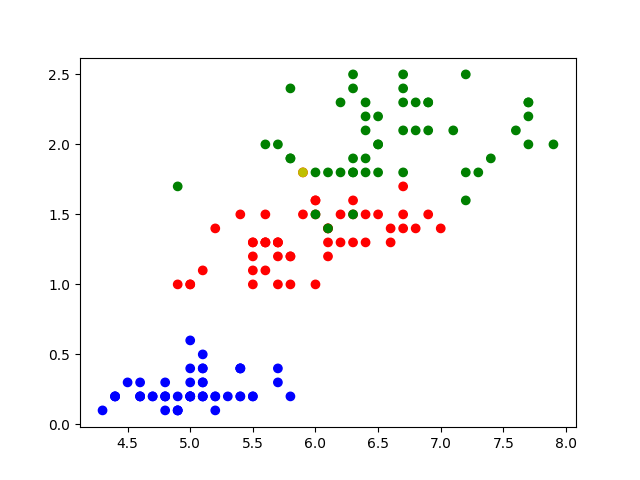
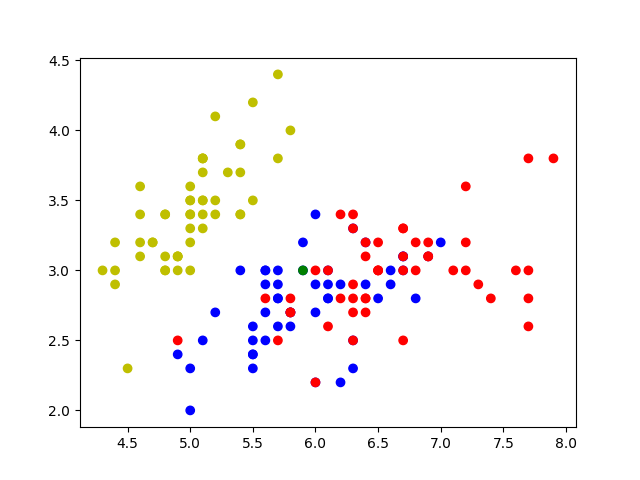
train_test_def

diff --git a/KNN/KNN.py b/KNN/KNN.py
@@ -16,9 +16,9 @@ def process_data(data:List[List[str]]):
     labels = set()
     for item in data:
             data_processed.append(
-                [float(item[0]), float(item[1]), float(item[2]), float(item[3]), item[4]]
+                [float(item[0]), float(item[1]), float(item[2]), float(item[3]), item[4].strip()]
             )
-            labels.add(item[4])
+            labels.add(item[4].strip())
     
     return data_processed, list(labels)
 
@@ -26,19 +26,33 @@ def process_data(data:List[List[str]]):
 def save_plot(data_processed, labels):
 
     x = [ item[0] for item in data_processed ]
-    y = [ item[3] for item in data_processed ]
+    y = [ item[1] for item in data_processed ]
     color = ["r","g", "b","y"]
     color_map = {l:c for l,c in zip(labels, color)}
     c = [color_map[item[-1]] for item in data_processed]
     plt.scatter(x, y, color=c)
     plt.savefig("KNN/iris_0_1.png")
 
-# def train_test_split():
+def train_test_split(data_processed, labels):
+    
+    data_on_labels = { label:[] for label in labels}
 
+    for item in data_processed:
+        data_on_labels[item[-1]].append(item[:-1])
+
+    train_test_data = { label: [] for label in labels }
+    for key in labels:
+        train_test_data[key].append({
+            'train': data_on_labels[key][:-10],
+            'test':data_on_labels[key][10:]
+        })
+
+    return train_test_data
 
 if __name__ == "__main__":
 
     data = load_data("KNN/iris.csv")
-    data_processed, labels = process_data(data) 
-    
-    save_plot(data_processed, labels)
+    data_processed, labels = process_data(data)
+    ttd = train_test_split(data_processed, labels)
+    print(ttd)
+    # save_plot(data_processed, labels)
